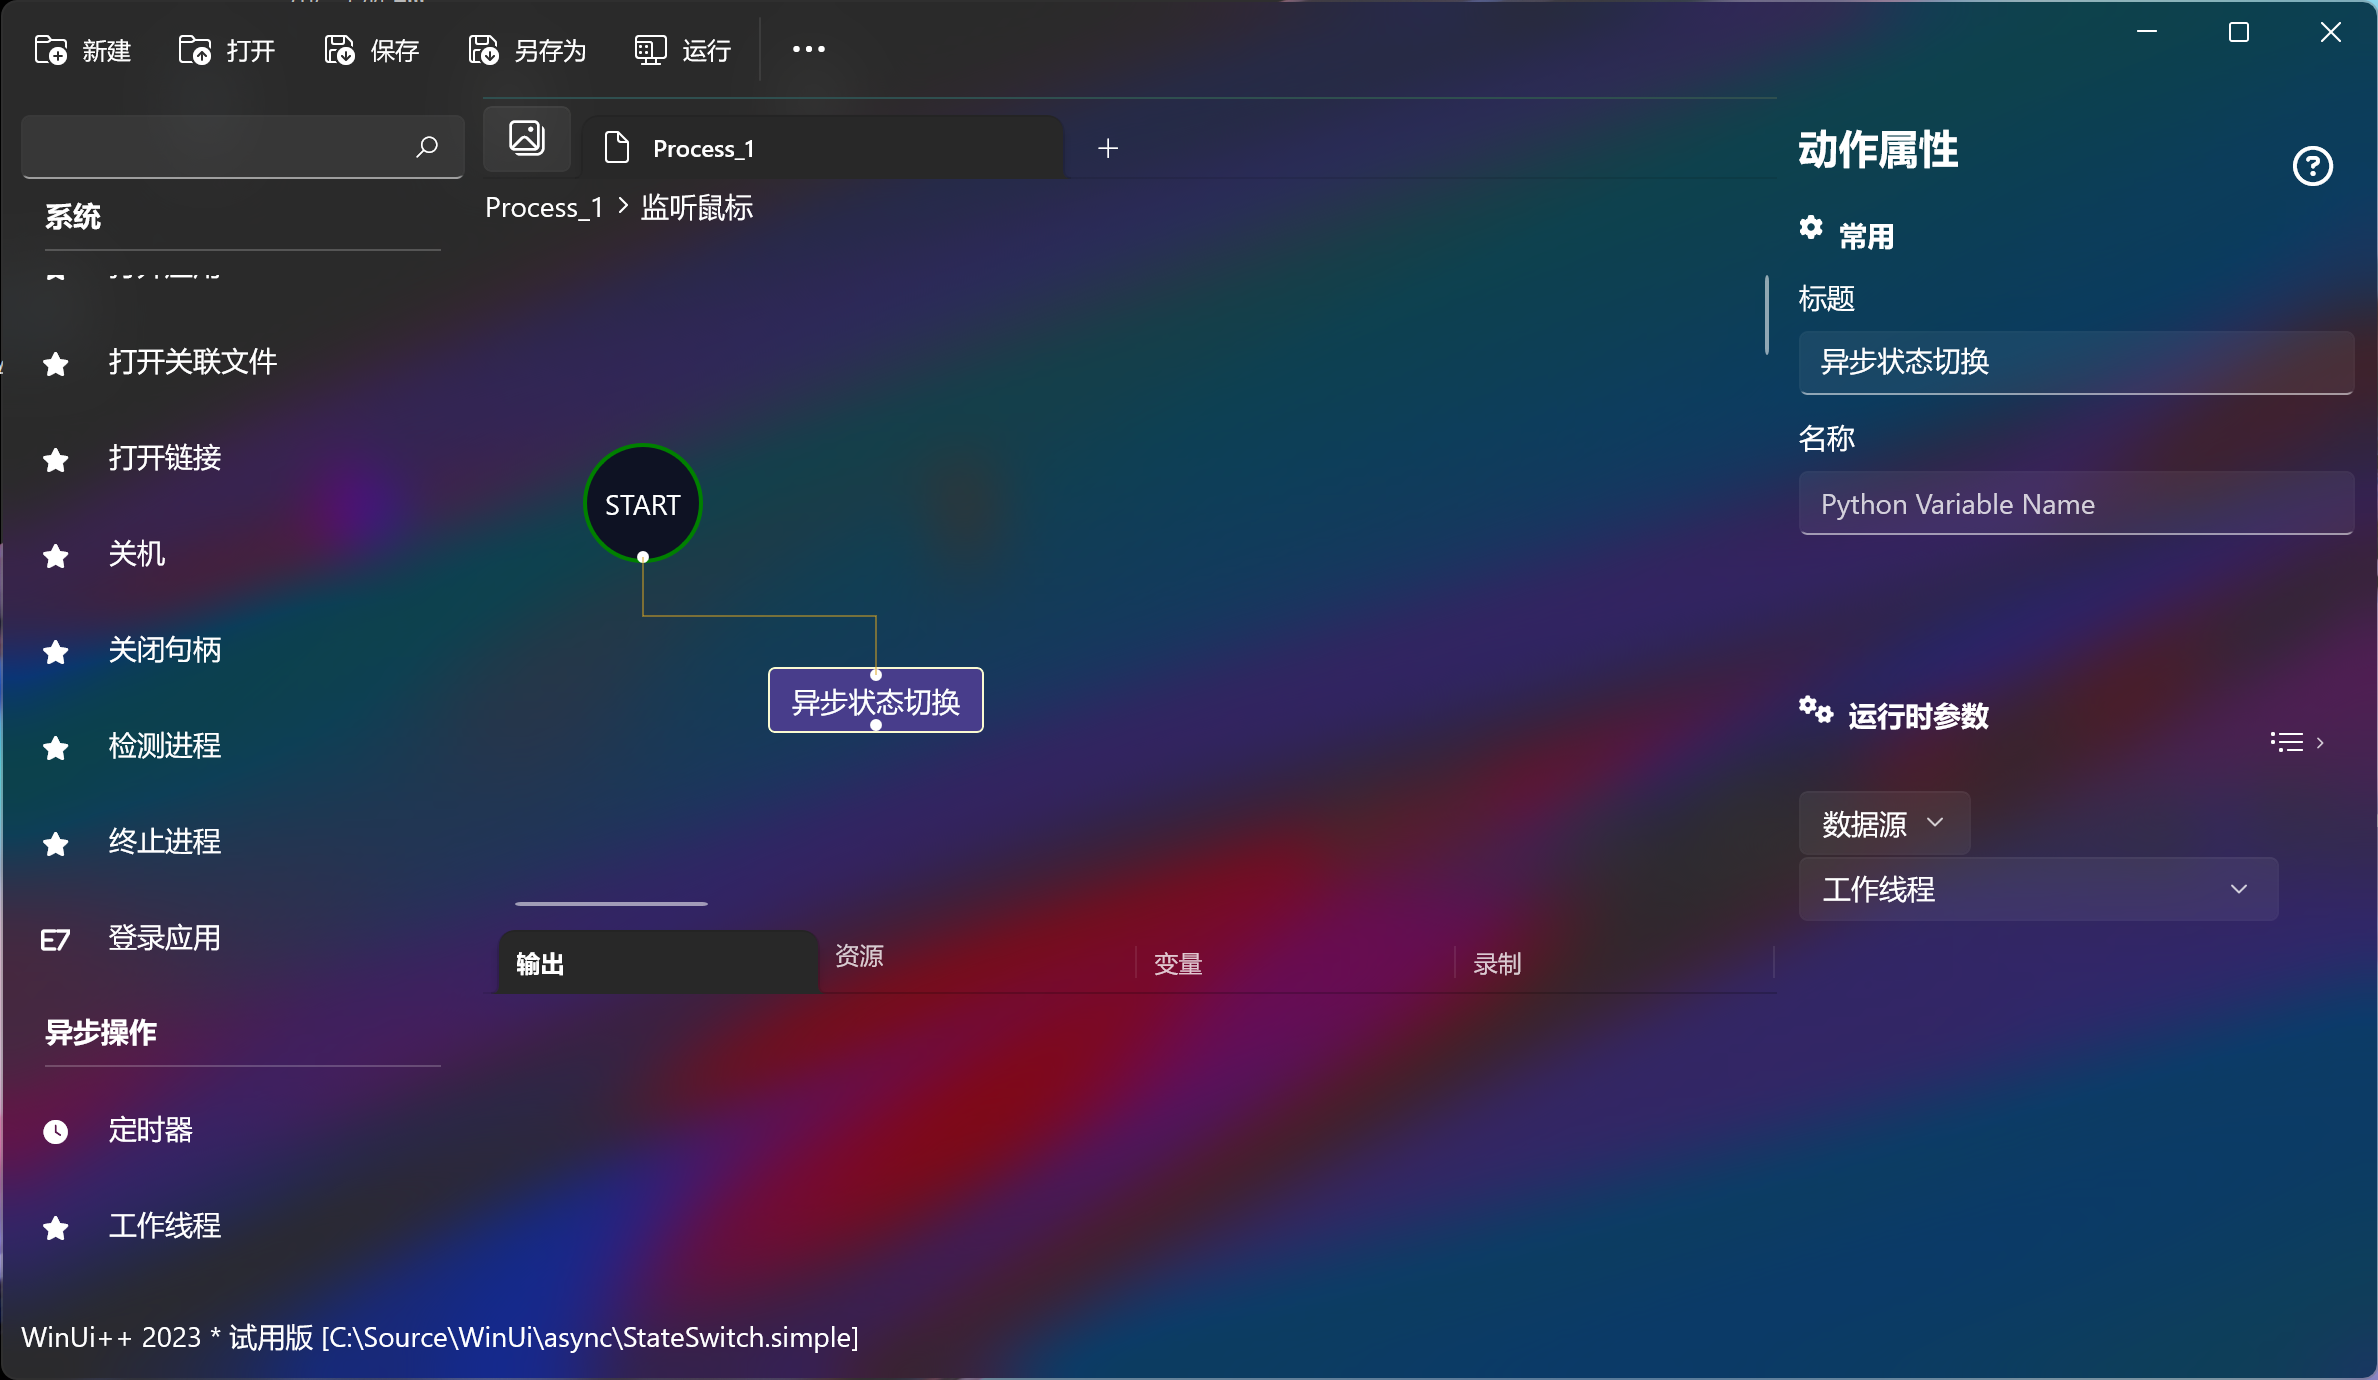
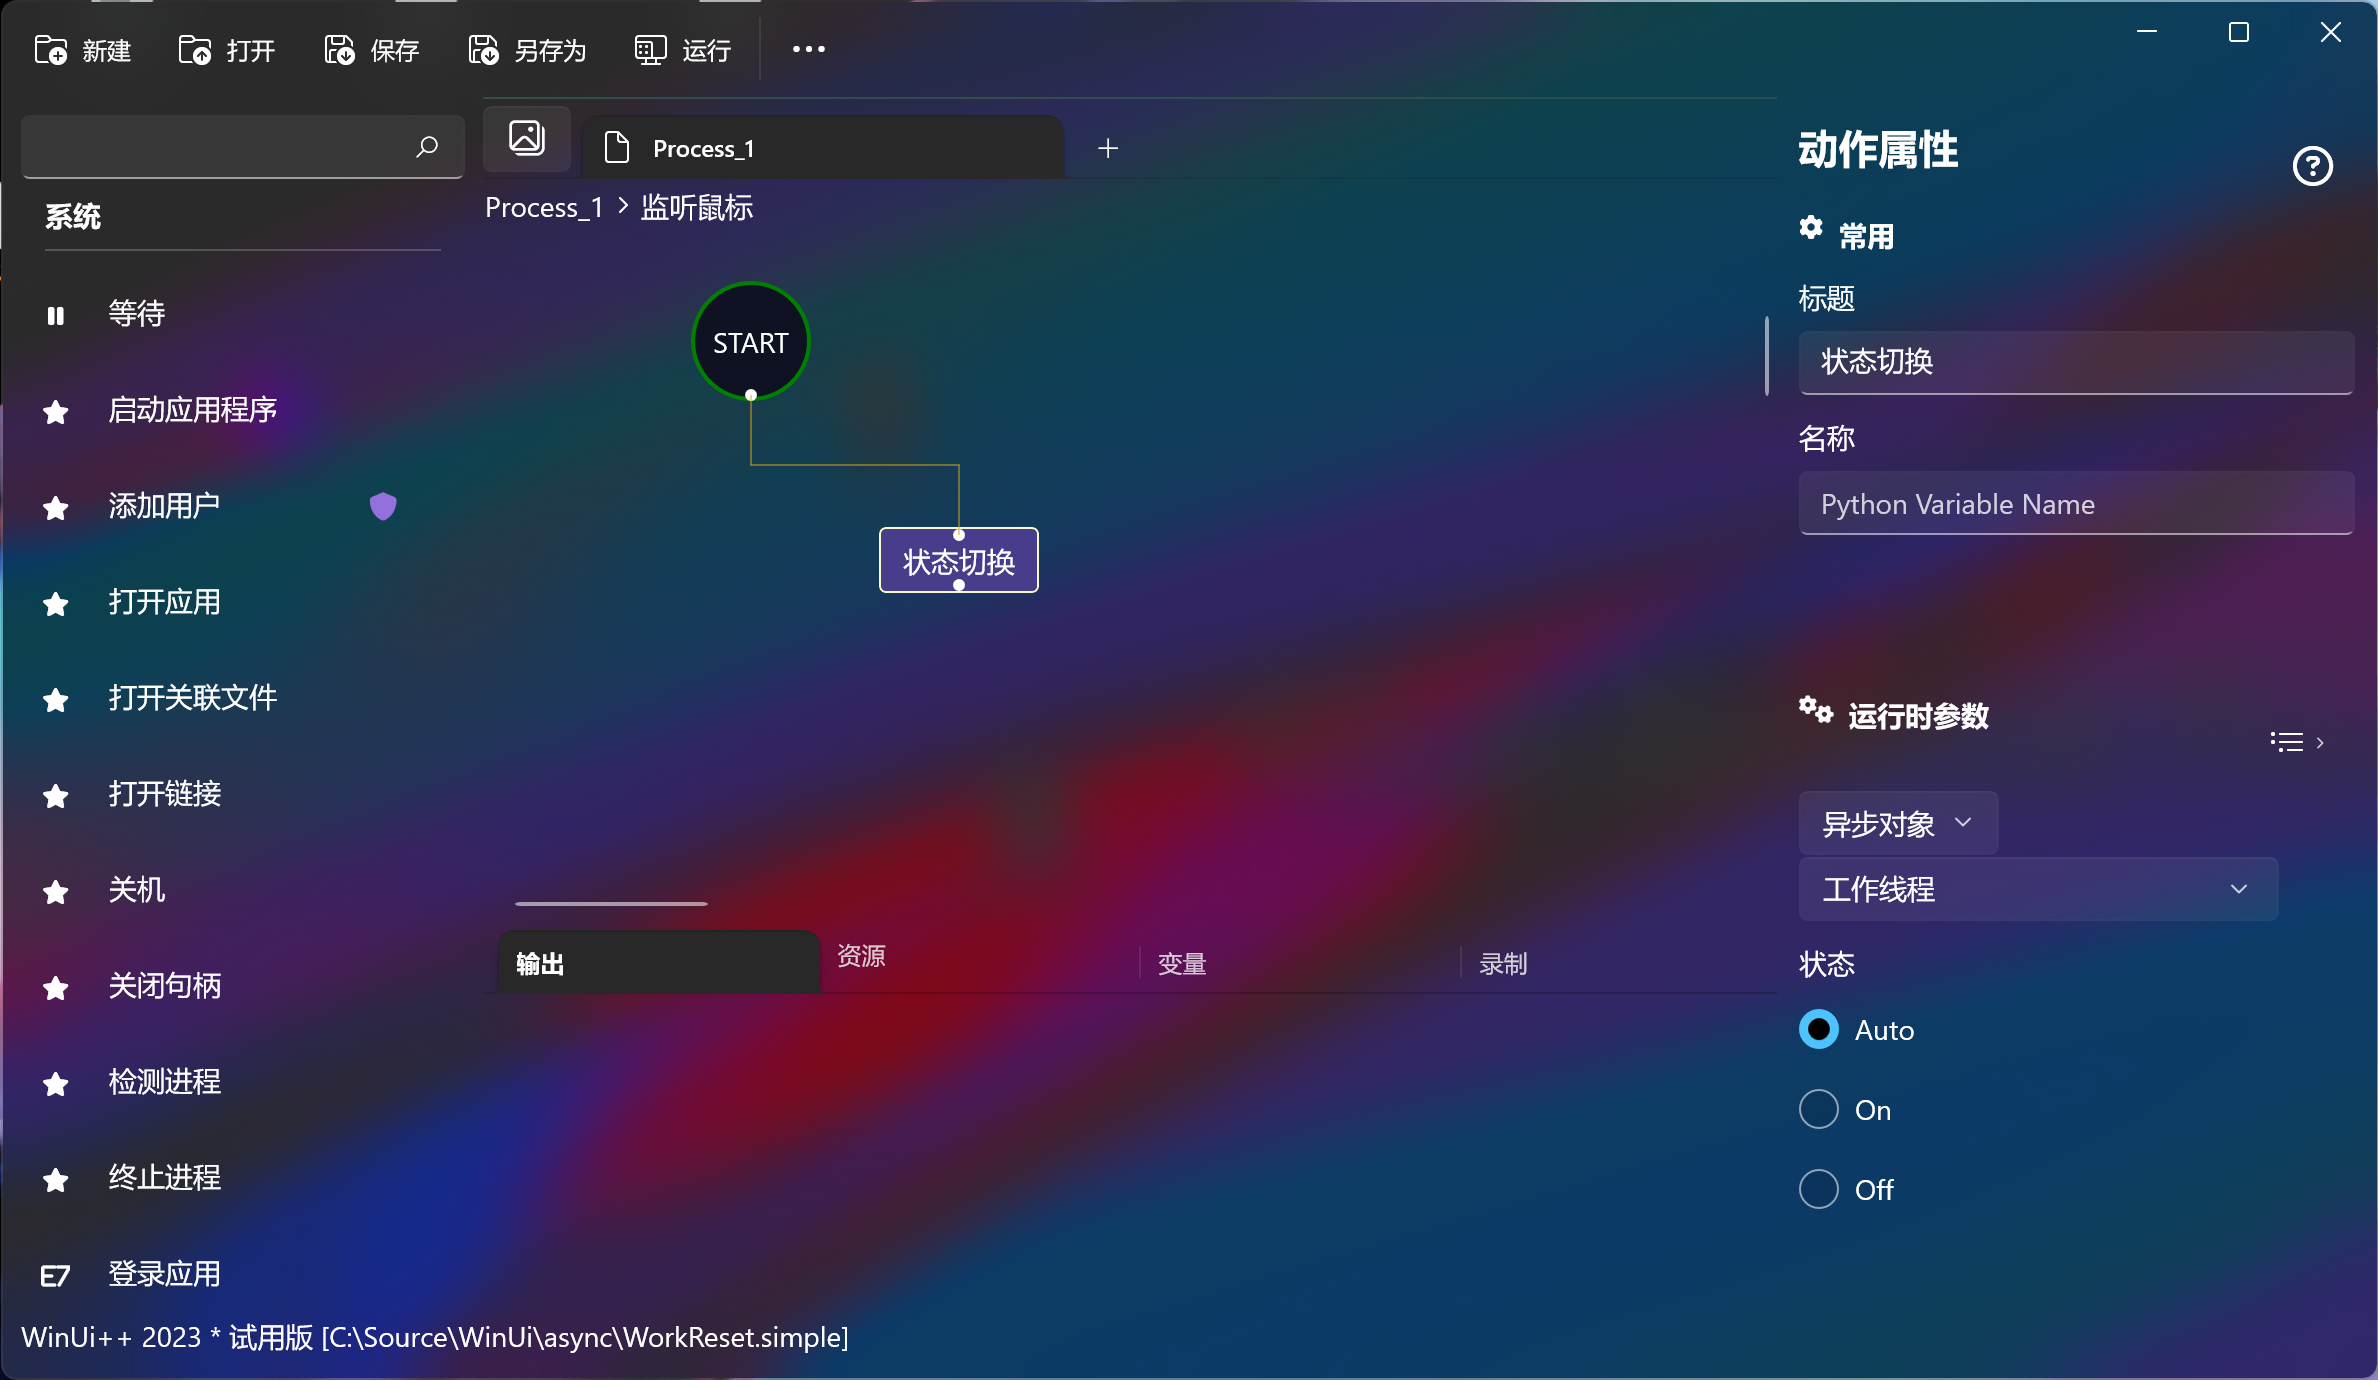
update

diff --git a/docx/_sidebar.md b/docx/_sidebar.md
@@ -25,12 +25,12 @@
       - [登录应用](./actions/system/LoginApplication.md)
     - 异步操作
       - [定时器](./actions/async/WorkTimer.md)
-      - [定时任务](./actions/async/ScheduledTask.md)
+      - [定时任务](./actions/async/WorkTask.md)
       - [工作线程](./actions/async/WorkThread.md)
       - [异步结束](./actions/async/WorkExit.md)
       - [异步启动](./actions/async/WorkBegin.md)
-      - [状态切换](./actions/async/WorkPower.md)
-      - [当...成立](./actions/async/When.md)
+      - [状态切换](./actions/async/WorkReset.md)
+      - [等待事件](./actions/async/WhenEvent.md)
     - 文件
       - [读取文件](./actions/filesystem/FileRead.md)
       - [文件写入](./actions/filesystem/FileWrite.md)
@@ -226,7 +226,7 @@
       - [密码](./actions/type/TypePassword.md)
       - [颜色](./actions/type/TypeColor.md)
       - [模型](./actions/type/ONNXModel.md)
-  - 类型
+  - 内置类型
     - [Boolean](./types/Boolean.md)
     - [Number](./types/Number.md)
     - [String](./types/String.md)
@@ -246,7 +246,7 @@
     - [WebDriver](./types/WebDriver.md)
     - [Timer](./types/Timer.md)
     - [Thread](./types/Thread.md)
-  - 枚举
+  - 枚举类型
     - [ThresholdTypes](./enums/ThresholdTypes.md)
     - [Directions](./enums/Directions.md)
     - [ColorConversionCodes](./enums/ColorConversionCodes.md)
@@ -264,6 +264,6 @@
     - [RetrievalModes](./enums/RetrievalModes.md)
     - [ThresholdTypes](./enums/ThresholdTypes.md)
     - [Visibility](./enums/Visibility.md)
-    - [WorkStatus](./enums/WorkStatus.md)
+    - [WorkState](./enums/WorkState.md)
     - [RelativePosition](./enums/RelativePosition.md)
   - [Changelog](./CHANGELOG.md)

diff --git a/docx/actions/async/WorkReset.md b/docx/actions/async/WorkReset.md
@@ -1,0 +1,29 @@
+# 状态切换 
+这个动作可用于切换异步动作的状态,比如切换 *线程* 和 *定时器* 停止/运行。或者设置*事件* 的状态。
+
+![WorkReset](./images/05.png ':size=90%')
+
+## 权限
+> 无要求
+
+## 子流程
+
+> 不支持
+
+## 运行参数
+* 异步对象，比如 [*WorkThread*](../../actions/async/WorkThread.md) 动作, 或者 [*WhenEvent*](../../actions/type/TypeEvent.md) 事件动作
+* 状态，参考[WorkState](../../enums/WorkState.md) 状态， 对于 [*WhenEvent*](../../actions/type/TypeEvent.md),  `Auto` == `On`。对于 [*WorkTimer*](../../actions/async/WorkTimer.md) / [*WorkThread*](../../actions/async/WorkThread.md), `Auto` 可以 在`On` 和 `Off` 之间切换。
+
+## 输出
+
+>   无
+
+
+## 脚本调用
+
+> 不支持，参考[Thread](./types/Thread.md) 或者 [WinEvent](./types/WinEvent.md)
+
+## 示例
+
+https://github.com/shelllet/WinUi/blob/main/async/WorkReset.simple
+

diff --git a/docx/actions/async/WhenEvent.md b/docx/actions/async/WhenEvent.md
@@ -1,0 +1,33 @@
+# 等待事件
+该动作会开启一个异步线程不停的检测事件状态，直到状态变为：`On` ,即为有信号时，才会去执行子流程，否则会一起等待。
+
+![WhenEvent](./images/07.png ':size=90%')
+
+## 权限
+> 无要求
+## 子流程
+> 支持
+
+
+## 运行参数
+
+
+* [manualReset](../../types/Boolean.md): 是否手动重置状态，默认为 `False`, 即自动重置事件状态。如果设置为 `True`, 可能需要两次调用 *WorkReset* 动作才恢复成初始状态。
+* [initialState](../../enums/PowerState.md) 初始化状态， 如果是 `Auto`, 则 默认为 `Off`，即无信号状态。
+
+
+## 输出
+
+> [Thread](../../types/Thread.md)    
+
+
+## 脚本调用
+
+```python
+import simple;
+
+```
+
+## 示例
+
+https://github.com/shelllet/WinUi/blob/main/control/WhenEvent.simple

diff --git a/docx/actions/async/WorkTask.md b/docx/actions/async/WorkTask.md
@@ -1,7 +1,7 @@
 # 定时任务 
 该动作在指定的时间触发，并且可以执行相应的子流程。
 
-![ScheduledTask](./images/06.png ':size=90%')
+![WorkTask](./images/06.png ':size=90%')
 
 ## 权限
 > 无要求
@@ -12,11 +12,11 @@
 
 ## 运行参数
 
-* [time](../../types/DateTime.md): 触发时间
+* [time](../../types/DateTime.md): 触发时间（本地系统时间）。
 
 ## 输出
 
-> 该动作使用线程去执行子流程，因此该动作不会被阻塞。该动作返回 [Thread](../../types/Thread.md)
+> 该动作使用线程去执行子流程，因此该动作不会被阻塞。返回 [Thread](../../types/Thread.md)
 
 ## 脚本调用
 

diff --git a/docx/actions/async/WorkExit.md b/docx/actions/async/WorkExit.md
@@ -21,7 +21,12 @@
 ## 脚本调用
 > 不支持，参考[Thread](./types/Thread.md)
 
-## 示例
+## 资源
 
-[https://github.com/shelllet/WinUi/blob/main/system/wait.simple](https://github.com/shelllet/WinUi/blob/main/system/wait.simple)
+示例流程：https://github.com/shelllet/WinUi/blob/main/async/WorkExit.simple
 
+
+
+<iframe type="text/html" height="640px" src="https://www.youtube.com/embed/6uxjf7iob5A" frameborder="0"></iframe>
+
+<iframe src="//player.bilibili.com/player.html?bvid=BV1km4y1L7xm&page=1&autoplay=0" height='640px' scrolling="no" border="0" frameborder="no" framespacing="0" allowfullscreen="true"></iframe>

diff --git a/docx/actions/filesystem/FileWrite.md b/docx/actions/filesystem/FileWrite.md
@@ -1,20 +1,19 @@
 # 文件写入 
-文件写入
+把文本信息写入本地文件
 
 ## 子流程
 > 不支持
 
 
 ## 运行参数
-* Value：写入的内容
-* Folder：文件保存的位置
-* Name：文件名称
-
+* [value](../../types/String.md)：写入的内容
+* [folder](../../types/Path.md)：文件保存的位置, 如果为空，使用当前路径，即工作流程所在的路径。
+* [name](../../types/String.md)：文件名称,可为空，如果为空，自动生成 *本地时间* 格式的名称
 
 
 ## 输出
 
-    
+> 写入文件的全路径 [`Path`](../../types/Path.md)    
 
 
 ## 脚本调用

diff --git a/docx/actions/filesystem/FileRead.md b/docx/actions/filesystem/FileRead.md
@@ -1,5 +1,7 @@
 # 读取文件 
-读取文件
+读取文件，可以读取二进制文件或者文本文件。
+
+![FileRead](./images/03.png ':size=90%')
 
 ## 子流程
 > 不支持
@@ -7,19 +9,23 @@
 
 ## 运行参数
 
-* File：文件路径
+* [file](../../types/Path.md)：文件所在的路径
 
 
 ## 输出
 
-    
+> 文件内容，[*字符串*](../../types/String.md)    
 
 
 ## 脚本调用
 
 ```python
-import simple;
+import simple
+
+r = simple.FileReadRunner("C:\\Users\\shell\\Desktop\\abc.txt")
+# r.file = "C:\\Users\\shell\\Desktop\\abc.txt"
+r.run()
 
 ```
 
-## 示例
+## 资源

diff --git a/docx/enums/WorkState.md b/docx/enums/WorkState.md
@@ -1,0 +1,8 @@
+# WorkState
+
+* Auto
+> 自动，线程或者定时器的状态自动切换 *运行* 或者 *停止*。对于 `WinEvent` ，对信号自动重置，
+* On
+> 启动 *线程* 或者 *定时器*，对于 *WhenEvent* 动作，可以让 *WhenEvent* 执行子流程。
+* Off
+> 停止*线程* 或者 *定时器*，对于 *WhenEvent* 动作，则会让 *WhenEvent* 动作处于等待状态。

diff --git a/docx/CHANGELOG.md b/docx/CHANGELOG.md
@@ -1,4 +1,4 @@
-# [0.25](https://github.com/shelllet/winui/compare/main...dev) (2023-07-XX)
+# [0.25](https://github.com/shelllet/winui/compare/main...dev) (2023-07-26)
 ### Features
 1. 添加动作 *ImageMarkRelativeROI*，方便对图像设置感兴趣的区域
 2. 添加动作 *WindowPoint*，方便获取窗口中几个选定坐标位置
